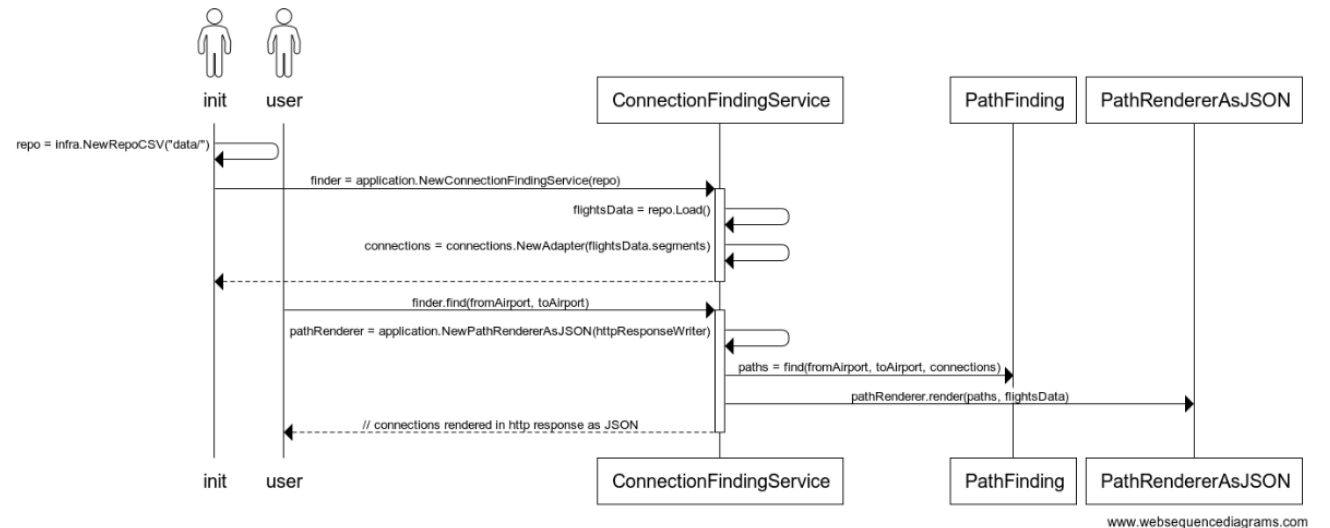
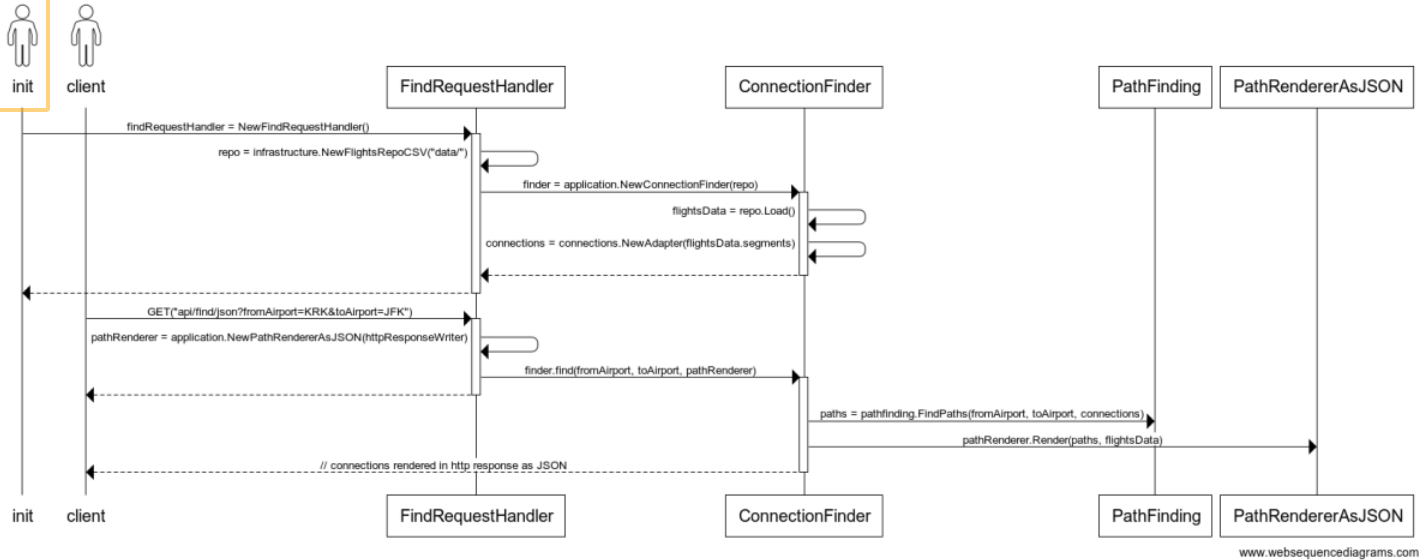
Restructured code, updated README diagrams

diff --git a/src/github.com/mateuszmidor/GoStudy/flight-finder/src/cmd/finder_web/main.go b/src/github.com/mateuszmidor/GoStudy/flight-finder/src/cmd/finder_web/main.go
@@ -1,15 +1,7 @@
 package main
 
 import (
-	"encoding/json"
-	"fmt"
-	"io"
 	"net/http"
-	"strconv"
-	"strings"
-
-	"github.com/mateuszmidor/GoStudy/flight-finder/src/application"
-	"github.com/mateuszmidor/GoStudy/flight-finder/src/infrastructure/csv"
 )
 
 func main() {
@@ -17,38 +9,7 @@ func main() {
 }
 
 func runWEB() {
-	repo := csv.NewFlightsDataRepoCSV("../../../data/")
-	finder := application.NewConnectionFindingService(repo)
-
-	http.Handle("/", &templateHandler{filename: "map.html"})
-	http.HandleFunc("/api/find/json", handleFindAsJSON(finder))
+	http.Handle("/", NewTemplateHandler("map.html"))
+	http.Handle("/api/find/json", NewFindRequestHandler())
 	http.ListenAndServe(":9000", nil)
-}
-
-func handleFindAsJSON(f *application.ConnectionFindingService) func(http.ResponseWriter, *http.Request) {
-	return func(w http.ResponseWriter, r *http.Request) {
-		w.Header().Set("Content-Type", "application/json")
-
-		from := strings.ToUpper(r.FormValue("from"))
-		to := strings.ToUpper(r.FormValue("to"))
-		maxSegmentCount, _ := strconv.Atoi(r.FormValue("maxsegmentcount"))
-		renderer := application.NewPathRendererAsJSON(w)
-		if err := f.Find(from, to, maxSegmentCount, renderer); err != nil {
-			fmt.Printf("%v\n", err)
-			w.WriteHeader(http.StatusBadRequest)
-			dumpErrorAsJSON(w, err)
-		}
-
-		fmt.Printf("%s -> %s\n", from, to)
-	}
-}
-
-func dumpErrorAsJSON(w io.Writer, e error) {
-	errorView := struct {
-		Error string `json:"error"`
-	}{
-		e.Error(),
-	}
-
-	json.NewEncoder(w).Encode(errorView)
 }

diff --git a/src/github.com/mateuszmidor/GoStudy/flight-finder/src/cmd/finder_web/find_request_hander.go b/src/github.com/mateuszmidor/GoStudy/flight-finder/src/cmd/finder_web/find_request_hander.go
@@ -1,0 +1,49 @@
+package main
+
+import (
+	"encoding/json"
+	"fmt"
+	"io"
+	"net/http"
+	"strconv"
+	"strings"
+
+	"github.com/mateuszmidor/GoStudy/flight-finder/src/application"
+	"github.com/mateuszmidor/GoStudy/flight-finder/src/infrastructure/csv"
+)
+
+type findRequestHandler struct {
+	finder *application.ConnectionFinder
+}
+
+func NewFindRequestHandler() *findRequestHandler {
+	repo := csv.NewFlightsDataRepoCSV("../../../data/")
+	finder := application.NewConnectionFinder(repo)
+	return &findRequestHandler{finder: finder}
+}
+
+func (h *findRequestHandler) ServeHTTP(w http.ResponseWriter, r *http.Request) {
+	w.Header().Set("Content-Type", "application/json")
+
+	from := strings.ToUpper(r.FormValue("from"))
+	to := strings.ToUpper(r.FormValue("to"))
+	maxSegmentCount, _ := strconv.Atoi(r.FormValue("maxsegmentcount"))
+	renderer := application.NewPathRendererAsJSON(w)
+	if err := h.finder.Find(from, to, maxSegmentCount, renderer); err != nil {
+		fmt.Printf("%v\n", err)
+		w.WriteHeader(http.StatusBadRequest)
+		dumpErrorAsJSON(w, err)
+	}
+
+	fmt.Printf("%s -> %s\n", from, to)
+}
+
+func dumpErrorAsJSON(w io.Writer, e error) {
+	errorView := struct {
+		Error string `json:"error"`
+	}{
+		e.Error(),
+	}
+
+	json.NewEncoder(w).Encode(errorView)
+}

diff --git a/src/github.com/mateuszmidor/GoStudy/flight-finder/src/cmd/finder_web/template_handler.go b/src/github.com/mateuszmidor/GoStudy/flight-finder/src/cmd/finder_web/template_handler.go
@@ -3,21 +3,19 @@ package main
 import (
 	"net/http"
 	"path/filepath"
-	"sync"
 	"text/template"
 )
 
 type templateHandler struct {
-	once     sync.Once
-	filename string
-	templ    *template.Template
+	templ *template.Template
+}
+
+func NewTemplateHandler(filename string) *templateHandler {
+	template := template.Must(template.ParseFiles(filepath.Join("data", filename)))
+	return &templateHandler{templ: template}
 }
 
 func (t *templateHandler) ServeHTTP(w http.ResponseWriter, r *http.Request) {
-	t.once.Do(func() {
-		t.templ = template.Must(template.ParseFiles(filepath.Join("data", t.filename)))
-	})
-
 	data := map[string]interface{}{
 		"Host": r.Host,
 	}

diff --git a/src/github.com/mateuszmidor/GoStudy/flight-finder/src/cmd/finder_cli/main.go b/src/github.com/mateuszmidor/GoStudy/flight-finder/src/cmd/finder_cli/main.go
@@ -40,7 +40,7 @@ func runCLI() {
 	const maxSegmentCount = 2
 
 	repo := csv.NewFlightsDataRepoCSV("../../../data/")
-	finder := application.NewConnectionFindingService(repo)
+	finder := application.NewConnectionFinder(repo)
 	renderer := application.NewPathRendererAsText(os.Stdout)
 
 	fmt.Println(promptMsg)
